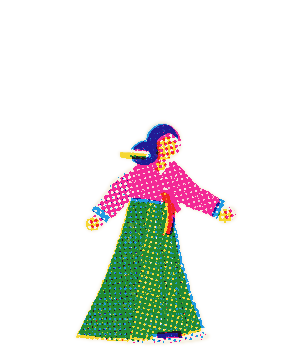
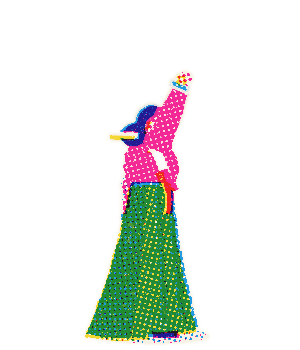
design: 4페이지 시소 구도 — 양끝에 앉은 두 사람, 시소 뒤에서 보는 쪽머리 (Refs #116)
- 2026-11-03 20:29 오너: 파란 옷 남자는 시소 왼쪽(낮은 끝)에 앉고, 노랑 저고리 여자는 오른쪽(높은 끝)에 앉아 마주 본다.
  분홍 저고리 여자는 시소 뒤에서 둘을 바라본다.
- 시소 판·짚단을 두루마리에서 떼어 따로 찍은 층(OnboardingProp_seesaw.png)으로 둔다 — 뒤에 선 사람을 판이 가린다.
  OnboardingScroll.json: props(세계 위치·앞뒤 z), figures 한 칸에 배율·앞뒤를 더 받는다([x, y, 배율, 앞뒤]).
- 앞뒤 바꾸기: 뒤로 들어가는 사람은 출발할 때, 앞으로 나오는 사람은 도착한 뒤에 바꾼다(판을 뚫고 지나가 보이지 않게).
- 노랑 저고리 여자는 좌우를 뒤집은 그림으로 왼쪽(남자)을 본다. 1~3페이지 화면 안 그림은 이전과 같다(자동 비교).
- 안내 테스트 712개 통과, Xcode 무서명 빌드 성공.

Claude-Session: https://claude.ai/code/session_0169kyDNcQssLsG4JY4DHaG7

diff --git a/Sources/OnboardingScroll.swift b/Sources/OnboardingScroll.swift
@@ -8,6 +8,7 @@ import SwiftUI
 enum OnboardingScrollArt {
     struct Station: Decodable { let page: Int; let cx: CGFloat; let cy: CGFloat; let zoom: CGFloat }
     /// 인물 자리: 1·2페이지는 가운데 사람(x, y) + 간격, 3페이지부터는 사람마다(figures, PEOPLE 순서).
+    /// figures 한 칸 = [x, y] · [x, y, 배율] · [x, y, 배율, 앞뒤]. 앞뒤 기본 10, 따로 찍은 층(Prop)과 비교해 쌓는다.
     struct PeopleAt: Decodable {
         let page: Int
         let scale: CGFloat
@@ -17,16 +18,27 @@ enum OnboardingScrollArt {
         let figures: [[CGFloat]]?
 
         func foot(_ index: Int) -> CGPoint? {
-            if let figures, index < figures.count, figures[index].count == 2 { return CGPoint(x: figures[index][0], y: figures[index][1]) }
+            if let figures, index < figures.count, figures[index].count >= 2 { return CGPoint(x: figures[index][0], y: figures[index][1]) }
             guard let x, let y else { return nil }
             return CGPoint(x: x + CGFloat(index - 1) * (spacing ?? 0), y: y)
         }
+        func scale(_ index: Int) -> CGFloat {
+            if let figures, index < figures.count, figures[index].count > 2 { return figures[index][2] }
+            return scale
+        }
+        func depth(_ index: Int) -> CGFloat {
+            if let figures, index < figures.count, figures[index].count > 3 { return figures[index][3] }
+            return 10
+        }
     }
+    /// 2026-11-03 20:29: 두루마리에서 떼어 따로 찍은 층(4페이지 시소 판 — 시소 뒤에 선 사람을 가린다). x, y = 세계 왼쪽 위 pt.
+    struct Prop: Decodable { let page: Int; let file: String; let x: CGFloat; let y: CGFloat; let w: CGFloat; let h: CGFloat; let z: CGFloat }
     struct Scroll: Decodable {
         let image_pt: [CGFloat]
         let stage_pt: [CGFloat]
         let stations: [Station]
         let people: [PeopleAt]
+        let props: [Prop]?
     }
     struct Sprite: Decodable { let file: String; let canvas_pt: [CGFloat]; let anchor_pt: [CGFloat] }
     struct People: Decodable { let order: [String]; let sprites: [String: Sprite] }
@@ -38,6 +50,10 @@ enum OnboardingScrollArt {
     static var pageCount: Int { image == nil ? 0 : (scroll?.stations.count ?? 0) }
 
     @MainActor private static var spriteCache: [String: CGImage] = [:]
+    @MainActor static func image(named file: String) -> CGImage? {
+        cgImage(Bundle.main.url(forResource: (file as NSString).deletingPathExtension, withExtension: "png"))
+    }
+
     @MainActor static func sprite(_ who: String, _ pose: String) -> CGImage? {
         let key = "\(who)_\(pose)"
         if let hit = spriteCache[key] { return hit }
@@ -77,6 +93,7 @@ struct OnboardingScrollStage: NSViewRepresentable {
 
         private let world = CALayer()
         private var persons: [CALayer] = []
+        private var props: [CALayer] = []
         private var page: Int?
 
         init() {
@@ -95,8 +112,18 @@ struct OnboardingScrollStage: NSViewRepresentable {
             for _ in OnboardingScrollArt.people?.order ?? [] {
                 let person = CALayer()
                 person.contentsGravity = .resize
+                person.zPosition = 10
                 world.addSublayer(person)
                 persons.append(person)
+            }
+            for prop in art.props ?? [] {                          // 따로 찍은 층 — 세계에 고정, 앞뒤(z)로 사람과 쌓인다
+                let layer = CALayer()
+                layer.contents = OnboardingScrollArt.image(named: prop.file)
+                layer.contentsGravity = .resize
+                layer.frame = CGRect(x: prop.x, y: art.image_pt[1] - prop.y - prop.h, width: prop.w, height: prop.h)
+                layer.zPosition = prop.z
+                world.addSublayer(layer)
+                props.append(layer)
             }
         }
 
@@ -109,6 +136,7 @@ struct OnboardingScrollStage: NSViewRepresentable {
             let scale = window?.backingScaleFactor ?? 2
             world.contentsScale = scale
             persons.forEach { $0.contentsScale = scale }
+            props.forEach { $0.contentsScale = scale }
             if let page { place(page) }
         }
 
@@ -140,15 +168,17 @@ struct OnboardingScrollStage: NSViewRepresentable {
             return CATransform3DConcat(CATransform3DMakeScale(s, s, 1), CATransform3DMakeTranslation(tx, ty, 0))
         }
 
-        private func personGeometry(_ page: Int, _ index: Int) -> (position: CGPoint, bounds: CGRect, anchor: CGPoint)? {
+        private func personGeometry(_ page: Int, _ index: Int) -> (position: CGPoint, bounds: CGRect, anchor: CGPoint, depth: CGFloat)? {
             guard let art = OnboardingScrollArt.scroll, let people = OnboardingScrollArt.people,
                   let at = art.people.first(where: { $0.page == page + 1 }),
                   let sprite = people.sprites["\(people.order[index])_p\(page + 1)"] else { return nil }
             let canvas = CGSize(width: sprite.canvas_pt[0], height: sprite.canvas_pt[1])
             guard let foot = at.foot(index) else { return nil }
+            let s = at.scale(index)
             return (CGPoint(x: foot.x, y: art.image_pt[1] - foot.y),
-                    CGRect(origin: .zero, size: CGSize(width: canvas.width * at.scale, height: canvas.height * at.scale)),
-                    CGPoint(x: sprite.anchor_pt[0] / canvas.width, y: 1 - sprite.anchor_pt[1] / canvas.height))
+                    CGRect(origin: .zero, size: CGSize(width: canvas.width * s, height: canvas.height * s)),
+                    CGPoint(x: sprite.anchor_pt[0] / canvas.width, y: 1 - sprite.anchor_pt[1] / canvas.height),
+                    at.depth(index))
         }
 
         private func place(_ page: Int) {
@@ -161,6 +191,7 @@ struct OnboardingScrollStage: NSViewRepresentable {
                 person.anchorPoint = g.anchor
                 person.bounds = g.bounds
                 person.position = g.position
+                person.zPosition = g.depth
                 person.contents = OnboardingScrollArt.sprite(who, "p\(page + 1)")
             }
             CATransaction.commit()
@@ -170,6 +201,8 @@ struct OnboardingScrollStage: NSViewRepresentable {
         private func travel(from: Int, to: Int) {
             let duration = to > from ? Self.forward : Self.backward
             let startCamera = world.presentation()?.transform ?? world.transform
+            // 앞뒤: 뒤로 들어가는 사람은 출발할 때, 앞으로 나오는 사람은 도착한 뒤에 바꾼다(시소 판을 뚫고 지나가 보이지 않게).
+            var arrivalDepths: [(CALayer, CGFloat)] = []
             CATransaction.begin(); CATransaction.setDisableActions(true)
             world.transform = camera(to)
             let move = CABasicAnimation(keyPath: "transform")
@@ -182,6 +215,7 @@ struct OnboardingScrollStage: NSViewRepresentable {
                 guard let g = personGeometry(to, i), let who = OnboardingScrollArt.people?.order[i] else { continue }
                 let startPosition = person.presentation()?.position ?? person.position
                 let startBounds = person.presentation()?.bounds ?? person.bounds
+                if g.depth < person.zPosition { person.zPosition = g.depth } else { arrivalDepths.append((person, g.depth)) }
                 person.anchorPoint = g.anchor
                 person.position = g.position
                 person.bounds = g.bounds
@@ -201,6 +235,15 @@ struct OnboardingScrollStage: NSViewRepresentable {
                 walk.calculationMode = .discrete
                 walk.duration = duration * 0.92
                 person.add(walk, forKey: "walk")
+            }
+            let arrivals = arrivalDepths
+            CATransaction.setCompletionBlock { [weak self] in
+                MainActor.assumeIsolated {
+                    guard let self, self.page == to else { return }
+                    CATransaction.begin(); CATransaction.setDisableActions(true)
+                    arrivals.forEach { $0.0.zPosition = $0.1 }
+                    CATransaction.commit()
+                }
             }
             CATransaction.commit()
         }
